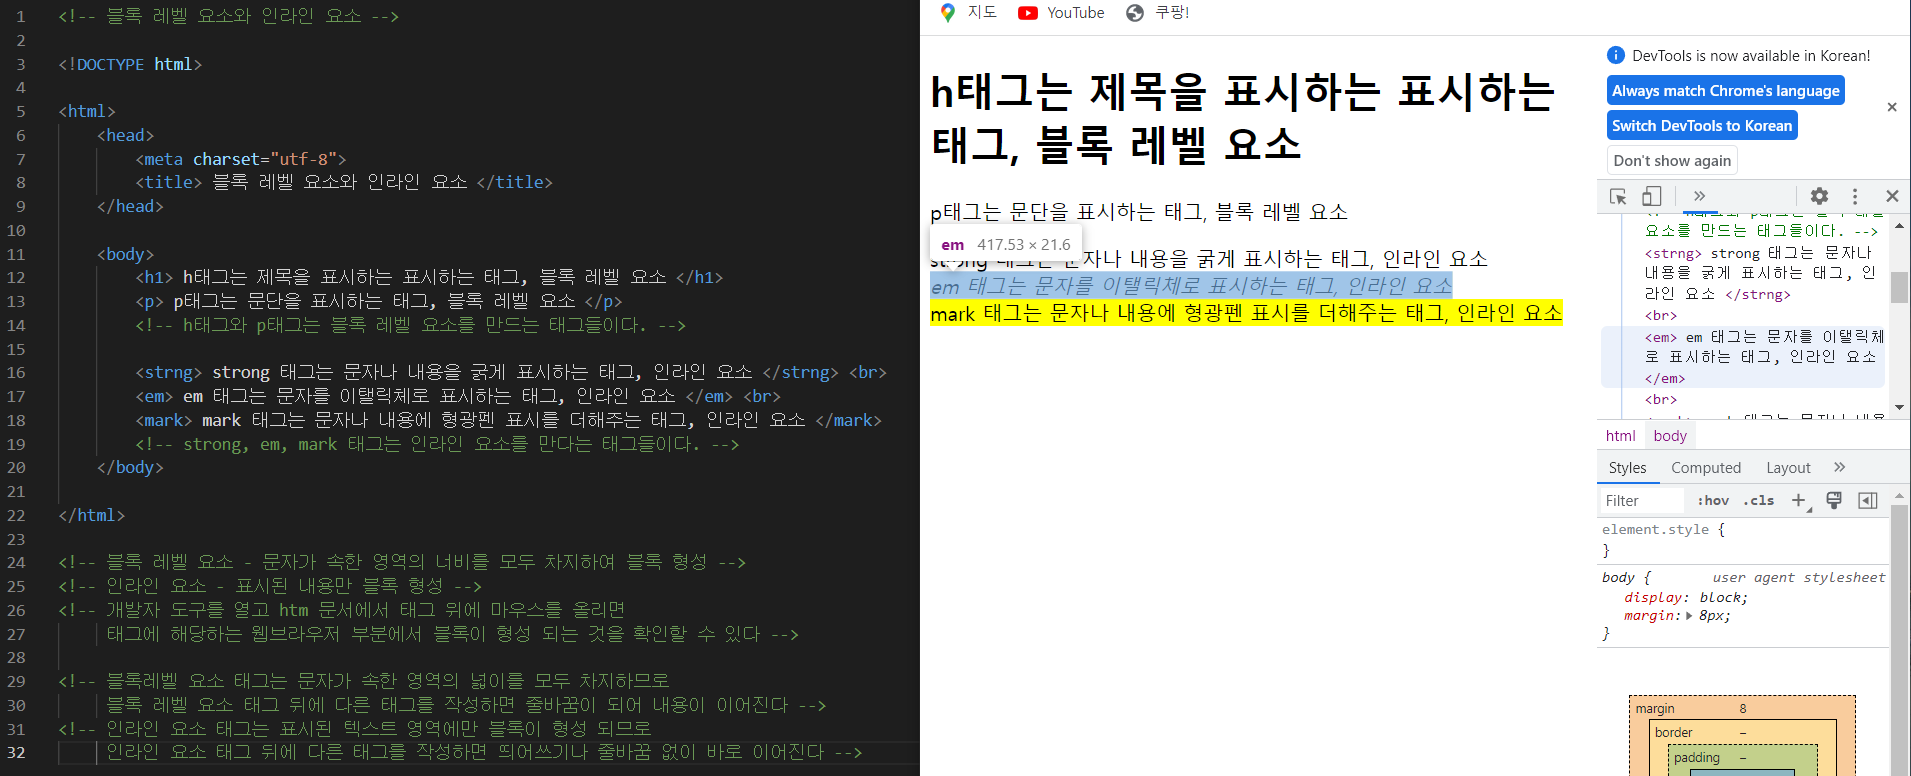
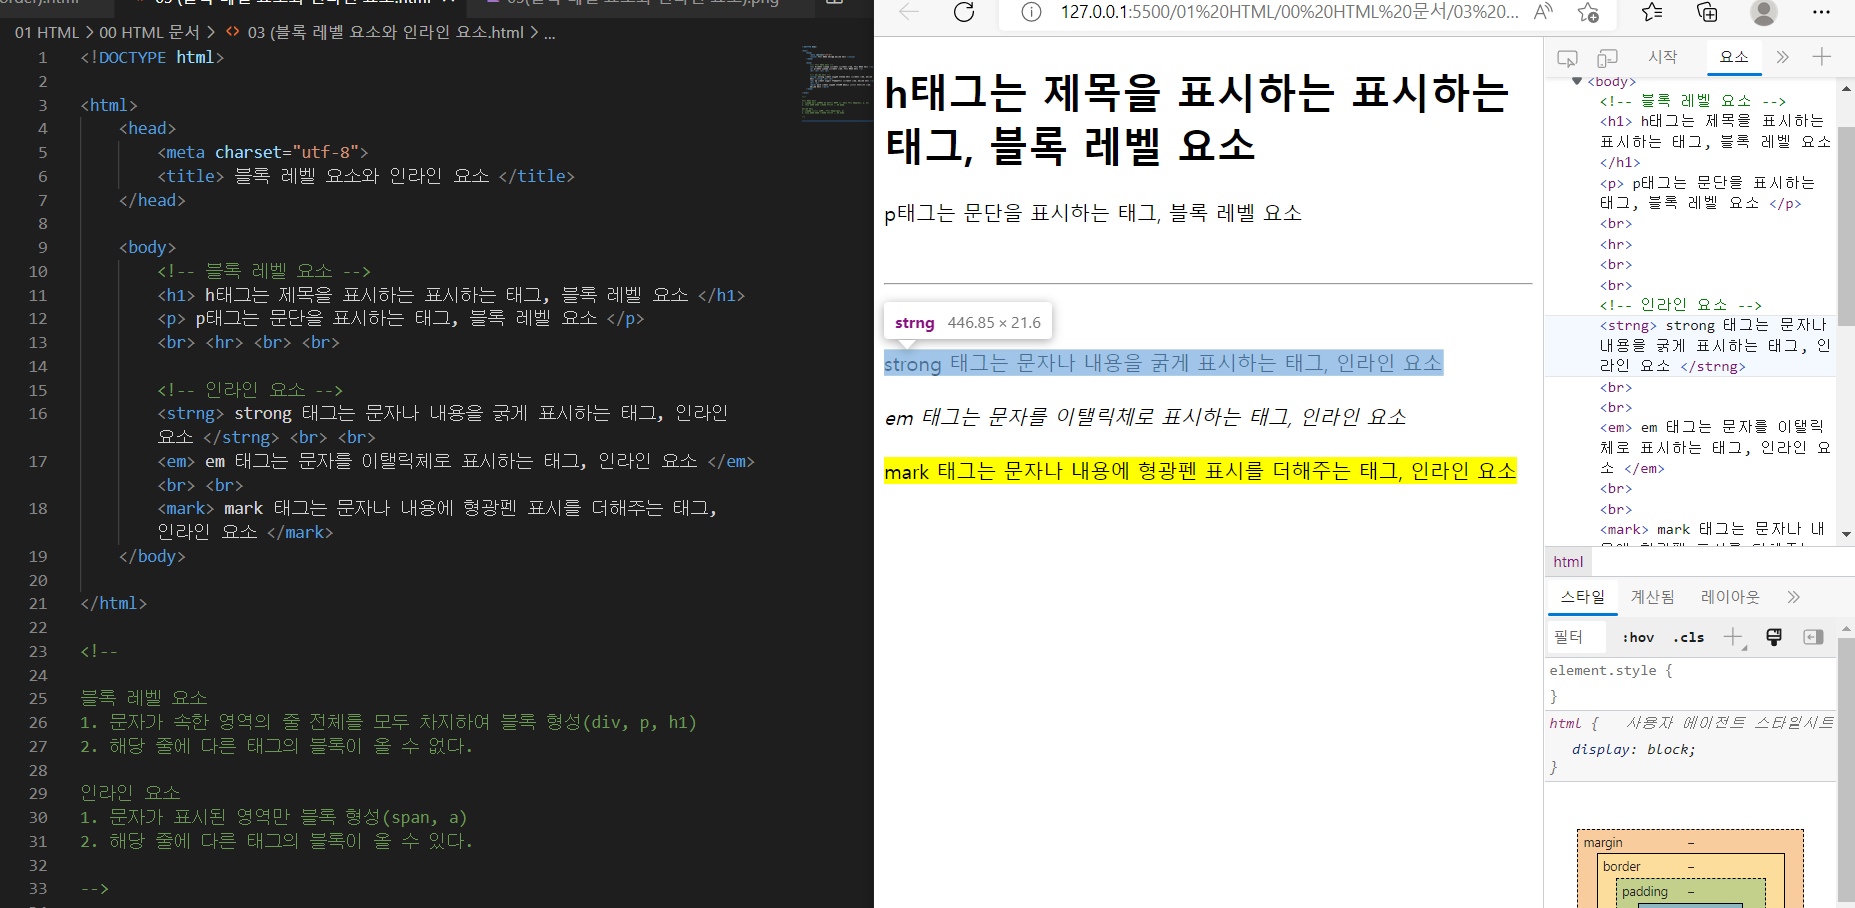
study

Changed region(s): [[0.0, 0.0, 1.0, 1.0], [0.0, 0.4948, 0.4302, 0.9897], [0.0, 0.0, 0.3073, 0.2784]]

diff --git a/01 HTML/00 HTML 문서/03 (블록 레벨 요소와 인라인 요소.html b/01 HTML/00 HTML 문서/03 (블록 레벨 요소와 인라인 요소.html
@@ -1,5 +1,3 @@
-<!-- 블록 레벨 요소와 인라인 요소 -->
-
 <!DOCTYPE html>
 
 <html>
@@ -9,24 +7,28 @@
     </head>
 
     <body>
+        <!-- 블록 레벨 요소 -->
         <h1> h태그는 제목을 표시하는 표시하는 태그, 블록 레벨 요소 </h1>
-        <p> p태그는 문단을 표시하는 태그, 블록 레벨 요소 </p>
-        <!-- h태그와 p태그는 블록 레벨 요소를 만드는 태그들이다. -->
+        <p> p태그는 문단을 표시하는 태그, 블록 레벨 요소 </p> 
+        <br> <hr> <br> <br>
 
-        <strng> strong 태그는 문자나 내용을 굵게 표시하는 태그, 인라인 요소 </strng> <br>
-        <em> em 태그는 문자를 이탤릭체로 표시하는 태그, 인라인 요소 </em> <br>
+        <!-- 인라인 요소 -->
+        <strng> strong 태그는 문자나 내용을 굵게 표시하는 태그, 인라인 요소 </strng> <br> <br>
+        <em> em 태그는 문자를 이탤릭체로 표시하는 태그, 인라인 요소 </em> <br> <br>
         <mark> mark 태그는 문자나 내용에 형광펜 표시를 더해주는 태그, 인라인 요소 </mark>
-        <!-- strong, em, mark 태그는 인라인 요소를 만다는 태그들이다. -->
     </body>
 
 </html>
 
-<!-- 블록 레벨 요소 - 문자가 속한 영역의 너비를 모두 차지하여 블록 형성 -->
-<!-- 인라인 요소 - 표시된 내용만 블록 형성 -->
-<!-- 개발자 도구를 열고 htm 문서에서 태그 위에 마우스를 올리면 
-     태그에 해당하는 웹브라우저 부분에서 블록이 형성 되는 것을 확인할 수 있다 -->
+<!-- 
 
-<!-- 블록레벨 요소 태그는 문자가 속한 영역의 넓이를 모두 차지하므로 
-     블록 레벨 요소 태그 뒤에 다른 태그를 작성하면 줄바꿈이 되어 내용이 이어진다 -->
-<!-- 인라인 요소 태그는 표시된 텍스트 영역에만 블록이 형성 되므로 
-     인라인 요소 태그 뒤에 다른 태그를 작성하면 띄어쓰기나 줄바꿈 없이 바로 이어진다 -->
+블록 레벨 요소
+1. 문자가 속한 영역의 줄 전체를 모두 차지하여 블록 형성(div, p, h1)
+2. 해당 줄에 다른 태그의 블록이 올 수 없다. 
+
+인라인 요소
+1. 문자가 표시된 영역만 블록 형성(span, a)
+2. 해당 줄에 다른 태그의 블록이 올 수 있다.
+
+-->
+
